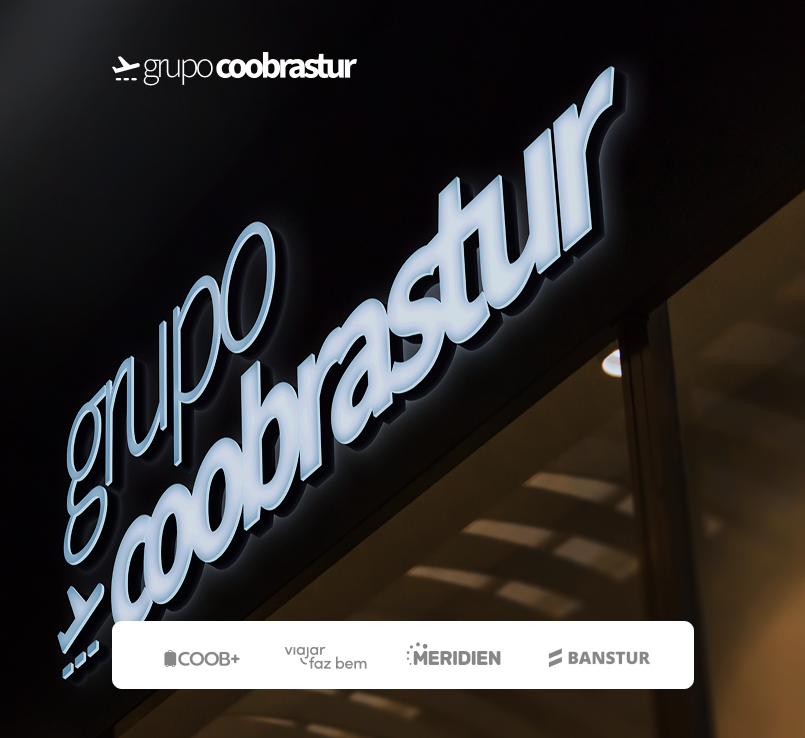
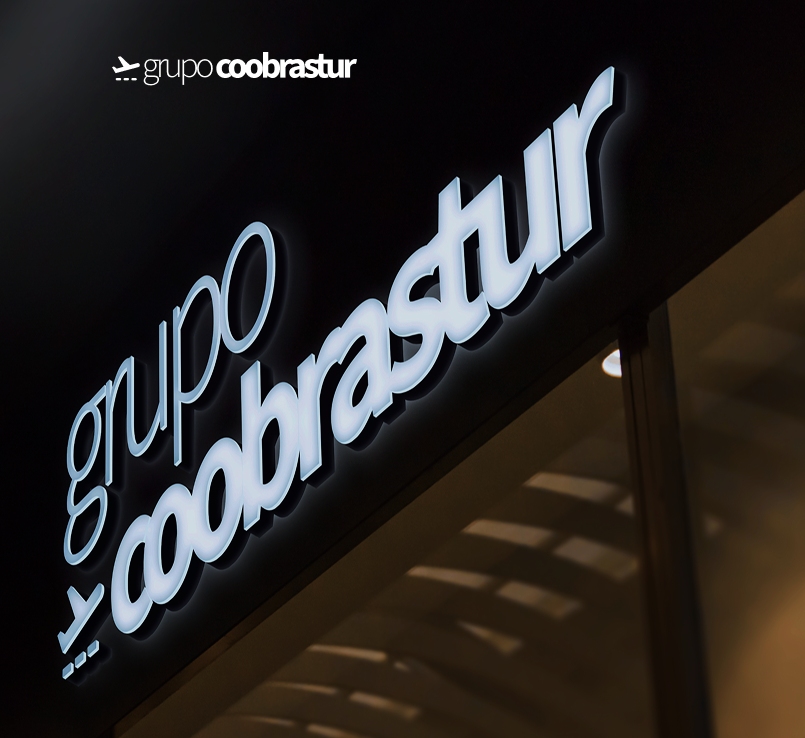
feat(auth): atualizar layout de autenticação com novos componentes e parceiros
- Substituído o componente de imagem padrão pelo componente personalizado '@components/image' para melhor controle e otimização.
- Adicionada a exibição de parceiros na parte inferior do layout, utilizando dados do arquivo '@utils/data/partners', melhorando a apresentação visual e a identidade da marca.
- Atualizada a imagem de fundo do layout para um novo arquivo, garantindo uma estética mais alinhada com a proposta da página.

Changed region(s): [[0.1242, 0.8415, 0.8696, 0.935]]

diff --git a/apps/web/app/(auth)/layout.tsx b/apps/web/app/(auth)/layout.tsx
@@ -1,4 +1,5 @@
-import Image from 'next/image';
+import { Image } from '@components/image';
+import { PARTNERS } from '@utils/data/partners';
 
 import CategoryIcon from '@images/icons/coobrastur-logo.svg';
 
@@ -12,11 +13,25 @@ export default function AuthLayout({
       <div className="relative lg:h-full w-full lg:block">
         <Image
           src="/images/pages/login/grupo.png"
-          alt="Login"
+          alt="Logo"
           fill
-          className="object-cover"
+          className="object-cover object-[33%_50%] fixed inset-0 -z-10"
           priority
+          quality={100}
         />
+
+        <div className="hidden lg:flex w-full lg:w-[618px] mx-auto absolute bottom-10 left-1/2 -translate-x-1/2 -translate-y-1/2 items-center gap-4 p-5 rounded-md bg-white shadow-lg justify-around">
+          {PARTNERS.map(partner => (
+            <div key={partner.alt} className="max-w-[130px]">
+              <Image
+                {...partner}
+                width={130}
+                height={30}
+                className="w-full h-full object-contain"
+              />
+            </div>
+          ))}
+        </div>
       </div>
       <div className="flex-1 px-[10px] lg:px-[150px] flex items-center justify-center">
         <div className="flex flex-col gap-4 pb-2 lg:text-left w-full max-w-[760px] lg:pt-0 pt-10">
